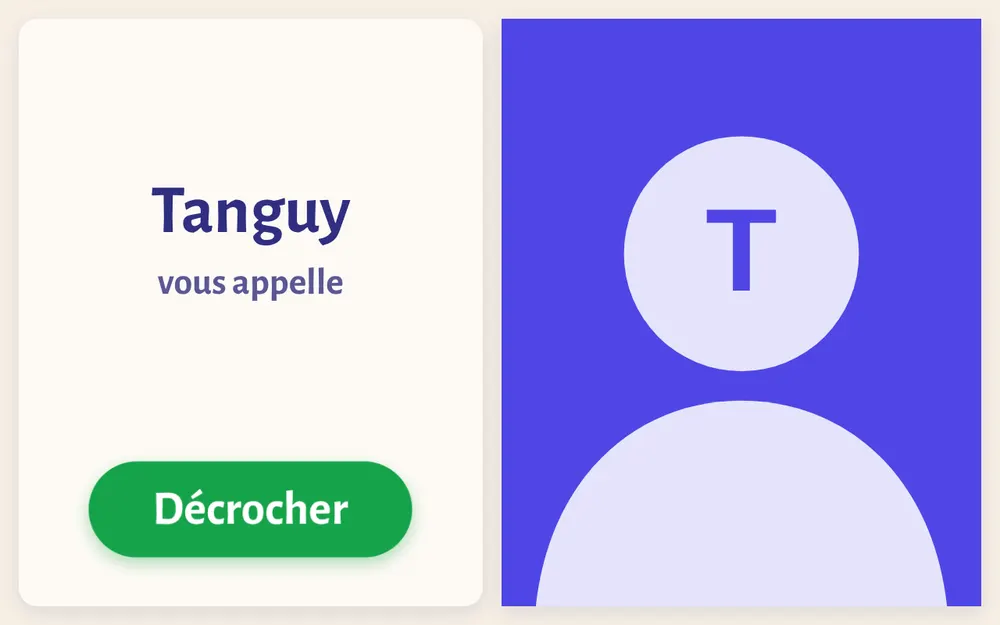
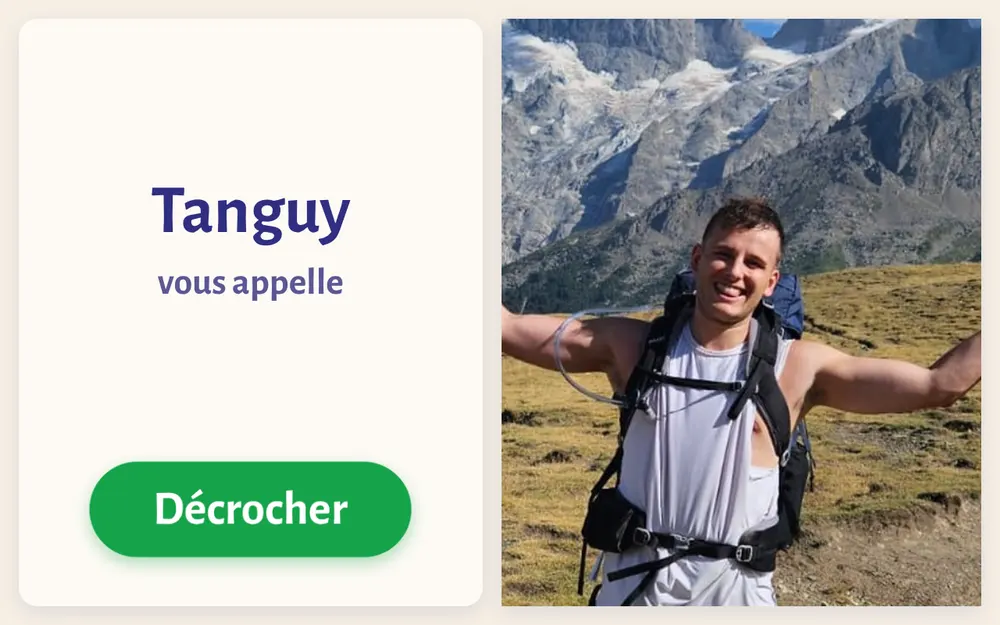
Vitrine : photo de Tanguy sur l'appel entrant, nouvelle citation
Claude-Session: https://claude.ai/code/session_011YPFtrwSQ7j4eGMAL7LTxB

diff --git a/vitrine/accueil.html b/vitrine/accueil.html
@@ -346,7 +346,7 @@ footer a { color: var(--muted); }
       <div class="qui-carte">
         <picture><source srcset="tanguy.webp" type="image/webp"><img class="portrait" src="tanguy.jpg" alt="Tanguy Reynaud" width="600" height="600"></picture>
         <div class="qui-texte">
-          <blockquote>« J'ai créé Papote pour ma grand-mère de 93 ans. Ce qui existait coûtait autour de 50 € par mois, ou 350 € pour une tablette qui n'était pas pensée pour elle. Alors j'ai fait plus simple et moins cher. »</blockquote>
+          <blockquote>« Ma grand-mère a 93 ans et n'a jamais touché un ordinateur. Je voulais qu'elle voie les photos de la famille et nos visages, sans rien avoir à apprendre. Papote, c'est la tablette que j'ai faite pour elle. Aujourd'hui, je la propose à d'autres familles. »</blockquote>
           <p><b>Tanguy Reynaud</b>, fondateur de Papote, à Lyon</p>
           <ul class="faits">
             <li class="coche">Je prépare et vérifie chaque tablette moi-même, une par une.</li>
